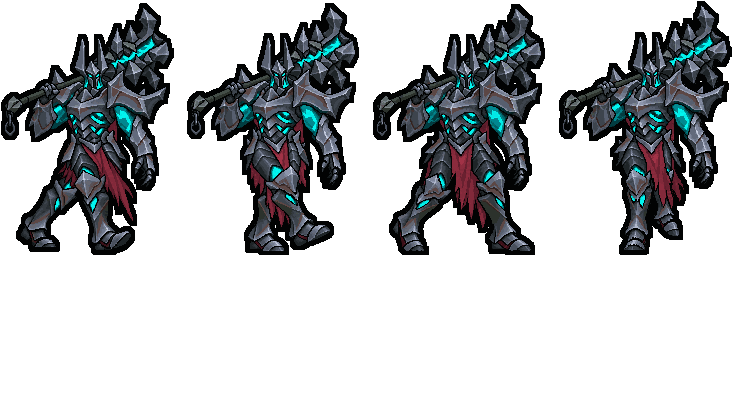
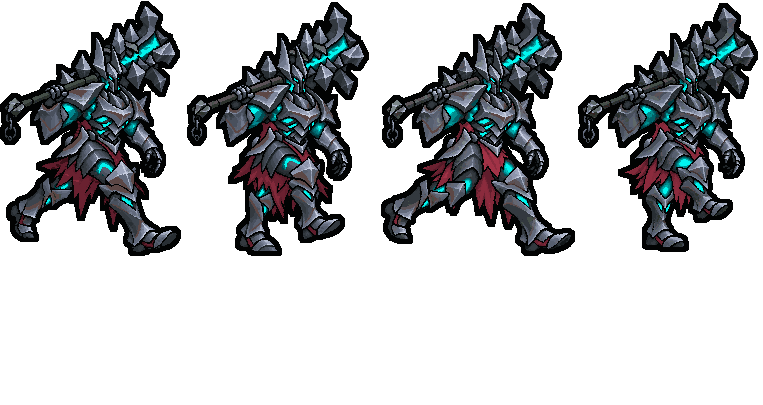
league_mordekaiser: the run turned 65 degrees (Codex's four phases, codex_run): tones matched to phase 2 (relum: 173 / 199 / 210 / 232 -> 197 / 199 / 205 / 196, the design 202), the upper bodies on one column and the torso over the pivot (RUN_DX)

Changed region(s): [[0.0, 0.0, 1.0, 0.6519]]

diff --git a/tools/art/rig_mordekaiser.py b/tools/art/rig_mordekaiser.py
@@ -11,7 +11,7 @@ canvases with the horn tips and the soles on the pack's lines, so they share the
   - one face (memory one-face-all-frames): the design's helm (HELM, the horns down to the chin) is pasted square for
     square over the pose's own wherever the pose shows it upright and uncovered (HELM_AT: its offset in the pose,
     found by matching); Q's raise and slam and the death keep Codex's (the helm between the raised arms, bowed, fallen);
-  - the run: Codex's four walking phases whole, the design's helm pasted at each step's bob;
+  - the run: Codex's four walking phases turned 65 degrees toward the image right (codex_run), tones matched;
   - the idle: the design breathing - the upper body rises over the legs, the row at the cut repeated in the gap;
   - W and the hit: the design recoloured (a teal pulse; a white flash) and moved as a whole.
 Sizes (the user's pick C: 110% and a thicker outline, Kassadin's way): league.dll draws him SIZE about his pivot, so
@@ -35,6 +35,8 @@ HERE = os.path.dirname(os.path.abspath(__file__))
 ROOT = os.path.dirname(os.path.dirname(HERE))
 sys.path.insert(0, os.path.join(ROOT, ".claude", "skills", "tfm2-hero-mod", "scripts"))
 import strips as G  # noqa: E402
+sys.path.insert(0, HERE)
+import design_varus as V  # noqa: E402
 
 SRC = os.path.join(ROOT, "assets", "source", "mordekaiser")
 FRONT = os.path.join(SRC, "hd", "front.png")
@@ -60,7 +62,8 @@ HELM_AT = {"attack-raise": (13, -10), "attack-strike": (22, 9), "e-grasp": (0, 0
 # ours); e-grasp keeps its pixels (the mace behind the helm, its helm the design's within a square)
 CLEAR = {"attack-raise", "attack-strike", "r-point"}
 CLEAR_PAD, CLEAR_ROWS = 5, 76     # hd squares round the helm, the design rows above which the clearing reaches
-WALK_DY = {1: 1, 2: 0, 3: 1, 4: -1}
+RUN = os.path.join(SRC, "codex_run")          # the 65-degree run (Codex, 2026-10-12: mordekaiser_run_poses.zip)
+RUN_DX = {1: -37, 2: -29, 3: -37, 4: -37}     # phase 2's upper body stood 8 squares left of the others'; all onto the pivot
 # poses Codex drew away from the design's place: the body (the mace on the ground aside) brought back over the pivot
 POSE_DX = {"dead-kneel": -95, "dead-lying": -58}   # the step's bob (the helm's offset in each walk phase)
 LEG_CUT = 165                     # design row: the idle's upper body rises above it
@@ -85,6 +88,10 @@ class Rig:
                 p = np.asarray(Image.open(os.path.join(POSES, f)).convert("RGBA"))
                 kind = "portrait" if p.shape[0] > p.shape[1] else "landscape"
                 self.poses[f[len("mordekaiser-"):-len("_1x.png")]] = (p, kind)
+        pal = np.unique(self.a[self.a[..., 3] > 0][:, :3], axis=0)
+        raw = {k: np.asarray(Image.open(os.path.join(RUN, f"mordekaiser-walk-{k}_1x.png")).convert("RGBA"))
+               for k in (1, 2, 3, 4)}
+        self.run = {k: (raw[k] if k == 2 else relum(raw[k], raw[2], pal)) for k in raw}
 
     def canvas(self):
         return np.zeros((CH, CW, 4), np.uint8)
@@ -143,15 +150,41 @@ class Rig:
         return can
 
     def walk(self, k):
-        """Codex's walking phase k whole (its upper body is the design's within a few squares; a cut at the belt
-        showed as a seam), the design's helm pasted at the step's bob."""
-        p, kind = self.poses[f"walk-{k}"]
+        """The run turned toward the image right (the user: 「走路的时候腿既然是那个方向 身体也要那个方向吧？」, picked
+        League's 65 degrees): Codex's phase k (codex_run), its tones matched to phase 2's (relum), moved by RUN_DX so
+        the four upper bodies stand on one column and the torso over the pivot."""
+        p = self.run[k]
         can = self.canvas()
-        ox, oy = self.origin(kind)
-        x0, y0 = PACK[kind]
-        self.put(can, p, p[..., 3] > 0, ox, oy)
-        self.put(can, self.a, self.helm, ox + x0, oy + y0 + WALK_DY[k])
+        ox, oy = self.origin("landscape")
+        self.put(can, p, p[..., 3] > 0, ox + RUN_DX[k], oy)
         return can
+
+
+def relum(p, ref, pal):
+    """p's colours moved to ref's tones: every colour's place among p's lightnesses (its median quantile) mapped to
+    the lightness at that quantile of ref, then the palette colour nearest in Lab to that lightness with the colour's
+    own hue (teal stays teal). The four run phases came 173 / 199 / 210 / 232 bright (the design 202)."""
+    op, ro = p[..., 3] > 0, ref[..., 3] > 0
+    lab = V.srgb2lab(p[op][:, :3].astype(float))
+    rl = np.sort(V.srgb2lab(ref[ro][:, :3].astype(float))[:, 0])
+    plab = V.srgb2lab(pal.astype(float))
+    order = np.argsort(lab[:, 0], kind="stable")
+    q = np.empty(len(lab))
+    q[order] = (np.arange(len(lab)) + 0.5) / len(lab)
+    out = p.copy()
+    px = out[op]
+    keys = [tuple(c) for c in p[op][:, :3]]
+    groups = {}
+    for i, key in enumerate(keys):
+        groups.setdefault(key, []).append(i)
+    for key, idx in groups.items():
+        idx = np.array(idx)
+        target = rl[min(len(rl) - 1, int(np.median(q[idx]) * len(rl)))]
+        c = lab[idx[0]]
+        d = (plab[:, 0] - target) ** 2 + (plab[:, 1] - c[1]) ** 2 + (plab[:, 2] - c[2]) ** 2
+        px[idx, :3] = pal[d.argmin()]
+    out[op] = px
+    return out
 
 
 SPECK = 12                        # loose pieces smaller than this (8-connected) are dropped

diff --git a/assets/source/mordekaiser/codex_run/HANDOFF.md b/assets/source/mordekaiser/codex_run/HANDOFF.md
@@ -1,0 +1,6 @@
+# 铁男跑步姿势交接
+本次仅生成4个跑步相位，未生成附件中的技能姿势。使用内置 imagegen，完整实际提示词见 prompts/。原始生成图片保存在 raw/，未修改。
+
+四张都为1536×1024透明PNG，附384×256的_1x版本及循环GIF。按原画布固定4×4块多数色读回，映射到附件48色色板；没有按包围盒缩放。仅整体平移到脚底第252行。透明度仅0/255，脚底线以下透明。
+
+造型沿用附件铁男设计，胸甲、头盔和双腿均向画面右边转。第三帧首次生成未交换前后腿，已弃用并重新生成。四张是姿势美术，尚未导入游戏验证。65°为视觉近似，头盔和上半身并非逐像素相同，锤子和盔甲细节仍有生成差异；不能声称达到附件逐格复制头盔的严格要求。循环预览仅用于看动作，150ms为预览速度，不是游戏原动画时长。
